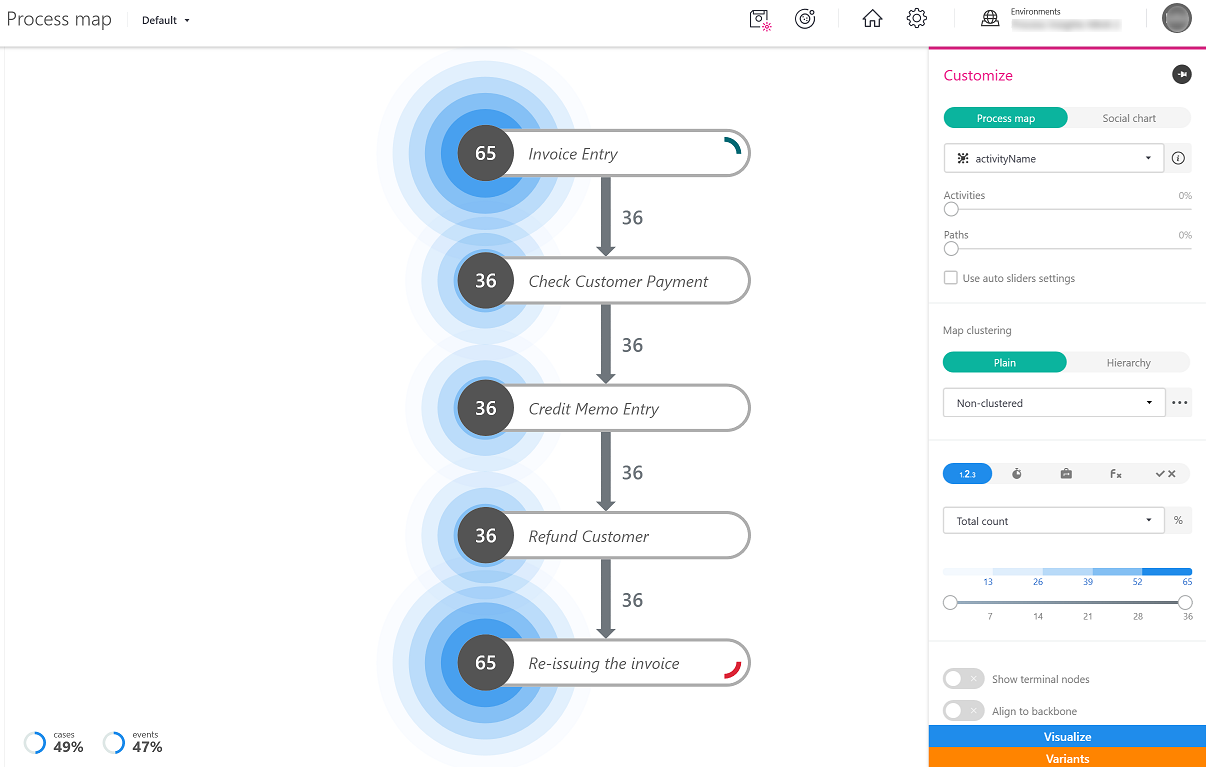
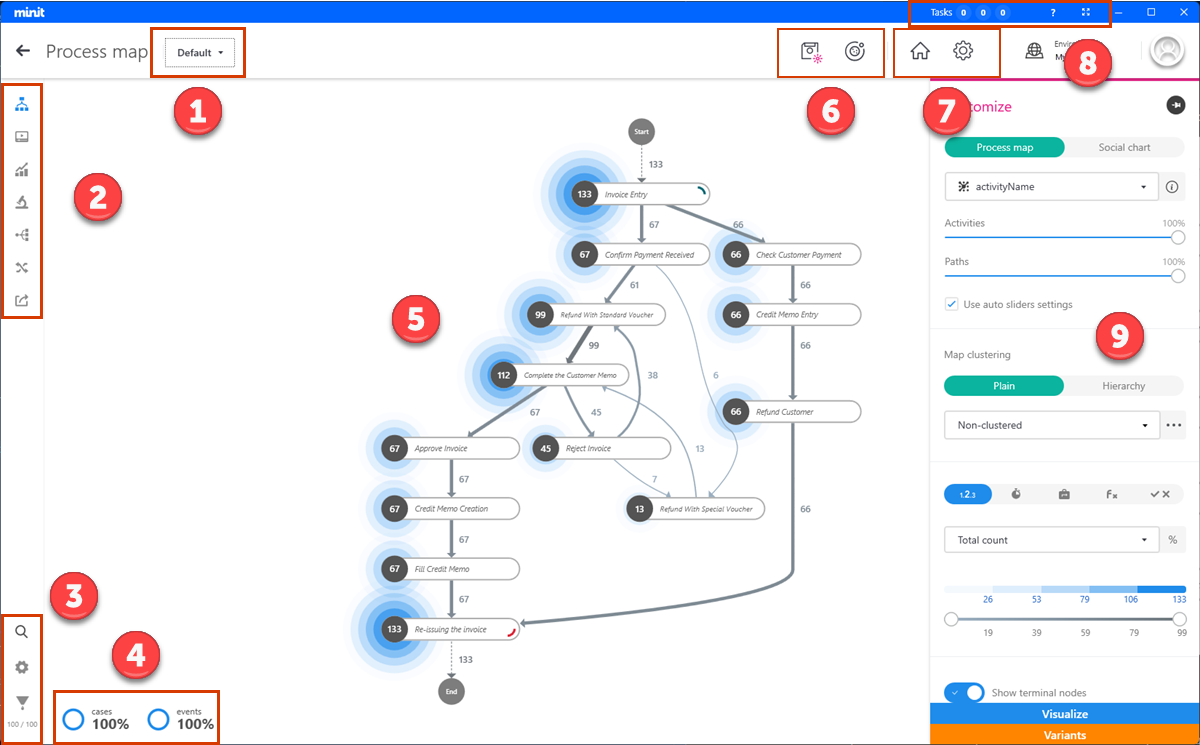
Still editing. More new screenshots.

diff --git a/articles/minit/process-explorer.md b/articles/minit/process-explorer.md
@@ -4,9 +4,10 @@ description: Learn how to use the process and process analysis tasks view in the
 author: nijemcevic
 ms.subservice: process-advisor
 ms.topic: overview
-ms.date: 10/15/2022
+ms.date: 10/27/2022
 ms.author: tatn
 ms.reviewer: angieandrews
+ms.custom: bap-template
 search.app:
 - Flow
 search.audienceType:
@@ -18,78 +19,97 @@ search.audienceType:
 
 [!INCLUDE[cc-beta-prerelease-disclaimer](../includes/cc-beta-prerelease-disclaimer.md)]
 
-The process explorer displays a process and process analysis tasks can be performed with it on the process. After opening the process in the explorer, the following example might appear.
+The process explorer displays the map of a process and settings and tasks that you can use to analyze it in different ways.
 
-:::image type="content" alt-text="Screenshot of the process map ad process tasks in the 'Process map' screen." source="media/image-8.png":::
+:::image type="content" alt-text="Screenshot of the process explorer." source="media/image-8.png":::
 
-### Full screen
+Legend:
 
-You can hide the top toolbar and view the process browser in full screen by selecting **FullScreen Mode** at the top right corner of the application.
+1. [Switch to a different view](#switch-views) or create a view.
+1. [Select tools to help you visualize your process](#process-explorer-tools).
+1. [Search for activities, change the view settings, and filter the view](#process-explorer-options).
+1. [View the percentage](#filter-summary) of the total cases and events that are reflected in the map.
+1. [Select an activity in the process map](#process-map) to get more information about it.
+1. [Manage the view](#manage-view) or open the [process context](#process-context).
+1. [Return to the process hub](#return-to-the-process-hub) or [change the app options](#app-options).
+1. [View tasks](#ongoing-tasks) and [hide or show the top row of buttons](#full-screen).
+1. [Open customization and variants panes](#customization-and-variants).
 
-### Ongoing tasks
+## Switch views
 
-You can see the current status of tasks running in the background and the history of performed tasks.
-
-If a task could not be completed, you can use the **Restart** button to restart it or you can edit its parameters before restarting by pressing the **Edit** button.
-
-:::image type="content" alt-text="Screenshot of the current tasks running in the background and the history of performed tasks." source="media/image-9.png":::
-
-### Back
-
-To close the currently open view and open the overview of projects, select the back arrow. The view that has closed is automatically saved.
-
-:::image type="content" alt-text="Screenshot of the Back arrow." source="media/image-10.png":::
-
-### Fast switching of views
-
-You can quickly and easily change the view that is presently open or create a new process view from scratch.
+Quickly change to a different view or create a view without returning to the process hub.
 
 :::image type="content" alt-text="Screenshot of switching views." source="media/image-11.png":::
 
-### Manage view
+## Process explorer tools
 
-You can manage the currently open view – save it, save it as a new view or undo the recent changes.
+Select from the following tools to explore different aspects of the process.
+
+:::image type="content" alt-text="Screenshot of process explorer tools." source="media/buttons-1.png":::
+
+> [!TIP]
+> Hover over the navigation area to reveal a right angle bracket. Select it to expand or collapse the toolbar and show the tool labels.
+
+## Process explorer options
+
+Select from the following options to search for activities, change view settings, or filter the cases and activities displayed in the view:
+
+:::image type="content" alt-text="Screenshot of process explorer options." source="media/buttons-2.png":::
+
+### Filter summary
+
+The **cases** and **events** summary shows the percentage of cases and events that are included in the process map. Hover over the filter icon to view the number of cases and events out of the total that are included.
+
+:::image type="content" alt-text="Screenshot of filtering results." source="media/process-map-filter-detail.png":::
+
+## Process map
+
+Refer to [Process map overview (preview)](process-map.md).
+
+## Manage view
+
+Select the **Manage view** icon to open a menu where you can rename the view, save it, save a copy, or revert your changes.
 
 :::image type="content" alt-text="Screenshot of options in the Manage view dropdown menu." source="media/ManageView.png":::
 
-### Process Context
+## Process context
 
-To access the Process Context screen directly from the process view, select **Process context**.
+Select the **Process context** icon to go to the [**Process context** page](process-context.md).
 
-:::image type="content" alt-text="Screenshot of the Process context shortcut icon." source="media/PC-Shortcut.png":::
+:::image type="content" alt-text="Screenshot of the Process context icon." source="media/PC-Shortcut.png":::
 
-A [Process Context dialog box](process-context.md) will open. After you make modifications and select **Save**, the process context is migrated and the defined changes are applied to the currently open process view.
+After you make modifications and select **Save**, the process view changes to reflect the new settings.
 
-### Navigation in the application
+## Return to the process hub
 
-Use these buttons to switch to other sections of the application. Your open view will be saved and closed.
+Select the home icon to return to the process hub. Your open view is saved and closed.
 
-:::image type="content" alt-text="Screenshot of navigation buttons." source="media/image005-1.png":::
+## App options
 
+Select the gear icon to set general options for the Minit desktop app, such as date and time formats, default export location, and working hours.
 
-#### Process hub
+### Ongoing tasks
 
-Use this item to display the overview of your projects where you can manage projects and views and open a view.
+Select the **Tasks** counter to view the status of tasks that are running in the background and the history of completed tasks.
 
-#### Settings
+If a task couldn't be completed, select **Restart** to restart it. If you want to edit its parameters before restarting the task, select **Edit**.
 
-Use this item to access the application settings.
+:::image type="content" alt-text="Screenshot of tasks running in the background and the history of completed tasks in the process explorer." source="media/image-9.png":::
 
-### Process explorer navigation
+## Full screen
 
-Here you can switch between various process analysis views and settings.
+Select the icon to the right of the **Tasks** counter to hide the top toolbar and view the process map in full screen. Select it again to show the top toolbar.
 
-:::image type="content" alt-text="Screenshot of process explorer buttons." source="media/buttons.png":::
+:::image type="content" source="media/fullscreen-icon.png" alt-text="Screenshot of the full-screen display icon in the process explorer.":::
 
-### Details and settings
+## Customization and variants
 
-The panel on the contains links to more detailed settings for the analytical tool in use and more detailed outputs from the analytical tool.
+Select **Customize**, **Visualize**, or **Variants** in the right side panel to refine the view and explore process variants. If the panel is hidden, select one of the following icons to open it:
 
 :::image type="content" alt-text="Screenshot of links to detailed settings." source="media/icons.png":::
 
-### Filters
+### See also
 
-You can access settings for filters above the process and a brief summary of filtering results. If filters have been applied to the process, here you can always see the actual extent of the process that is being analyzed. Select the **filtering results** icon to see the textual summary of the active filters.
-
-:::image type="content" alt-text="Screenshot of filtering results." source="media/image-30.png":::
-
+[Customize the process map](process-map.md#process-map-settings)  
+[Change the process map's size and spacing](process-map.md#visualization-settings-for-the-process-map-or-social-graph)  
+[Explore process variants](process-map.md#variant-panel)
